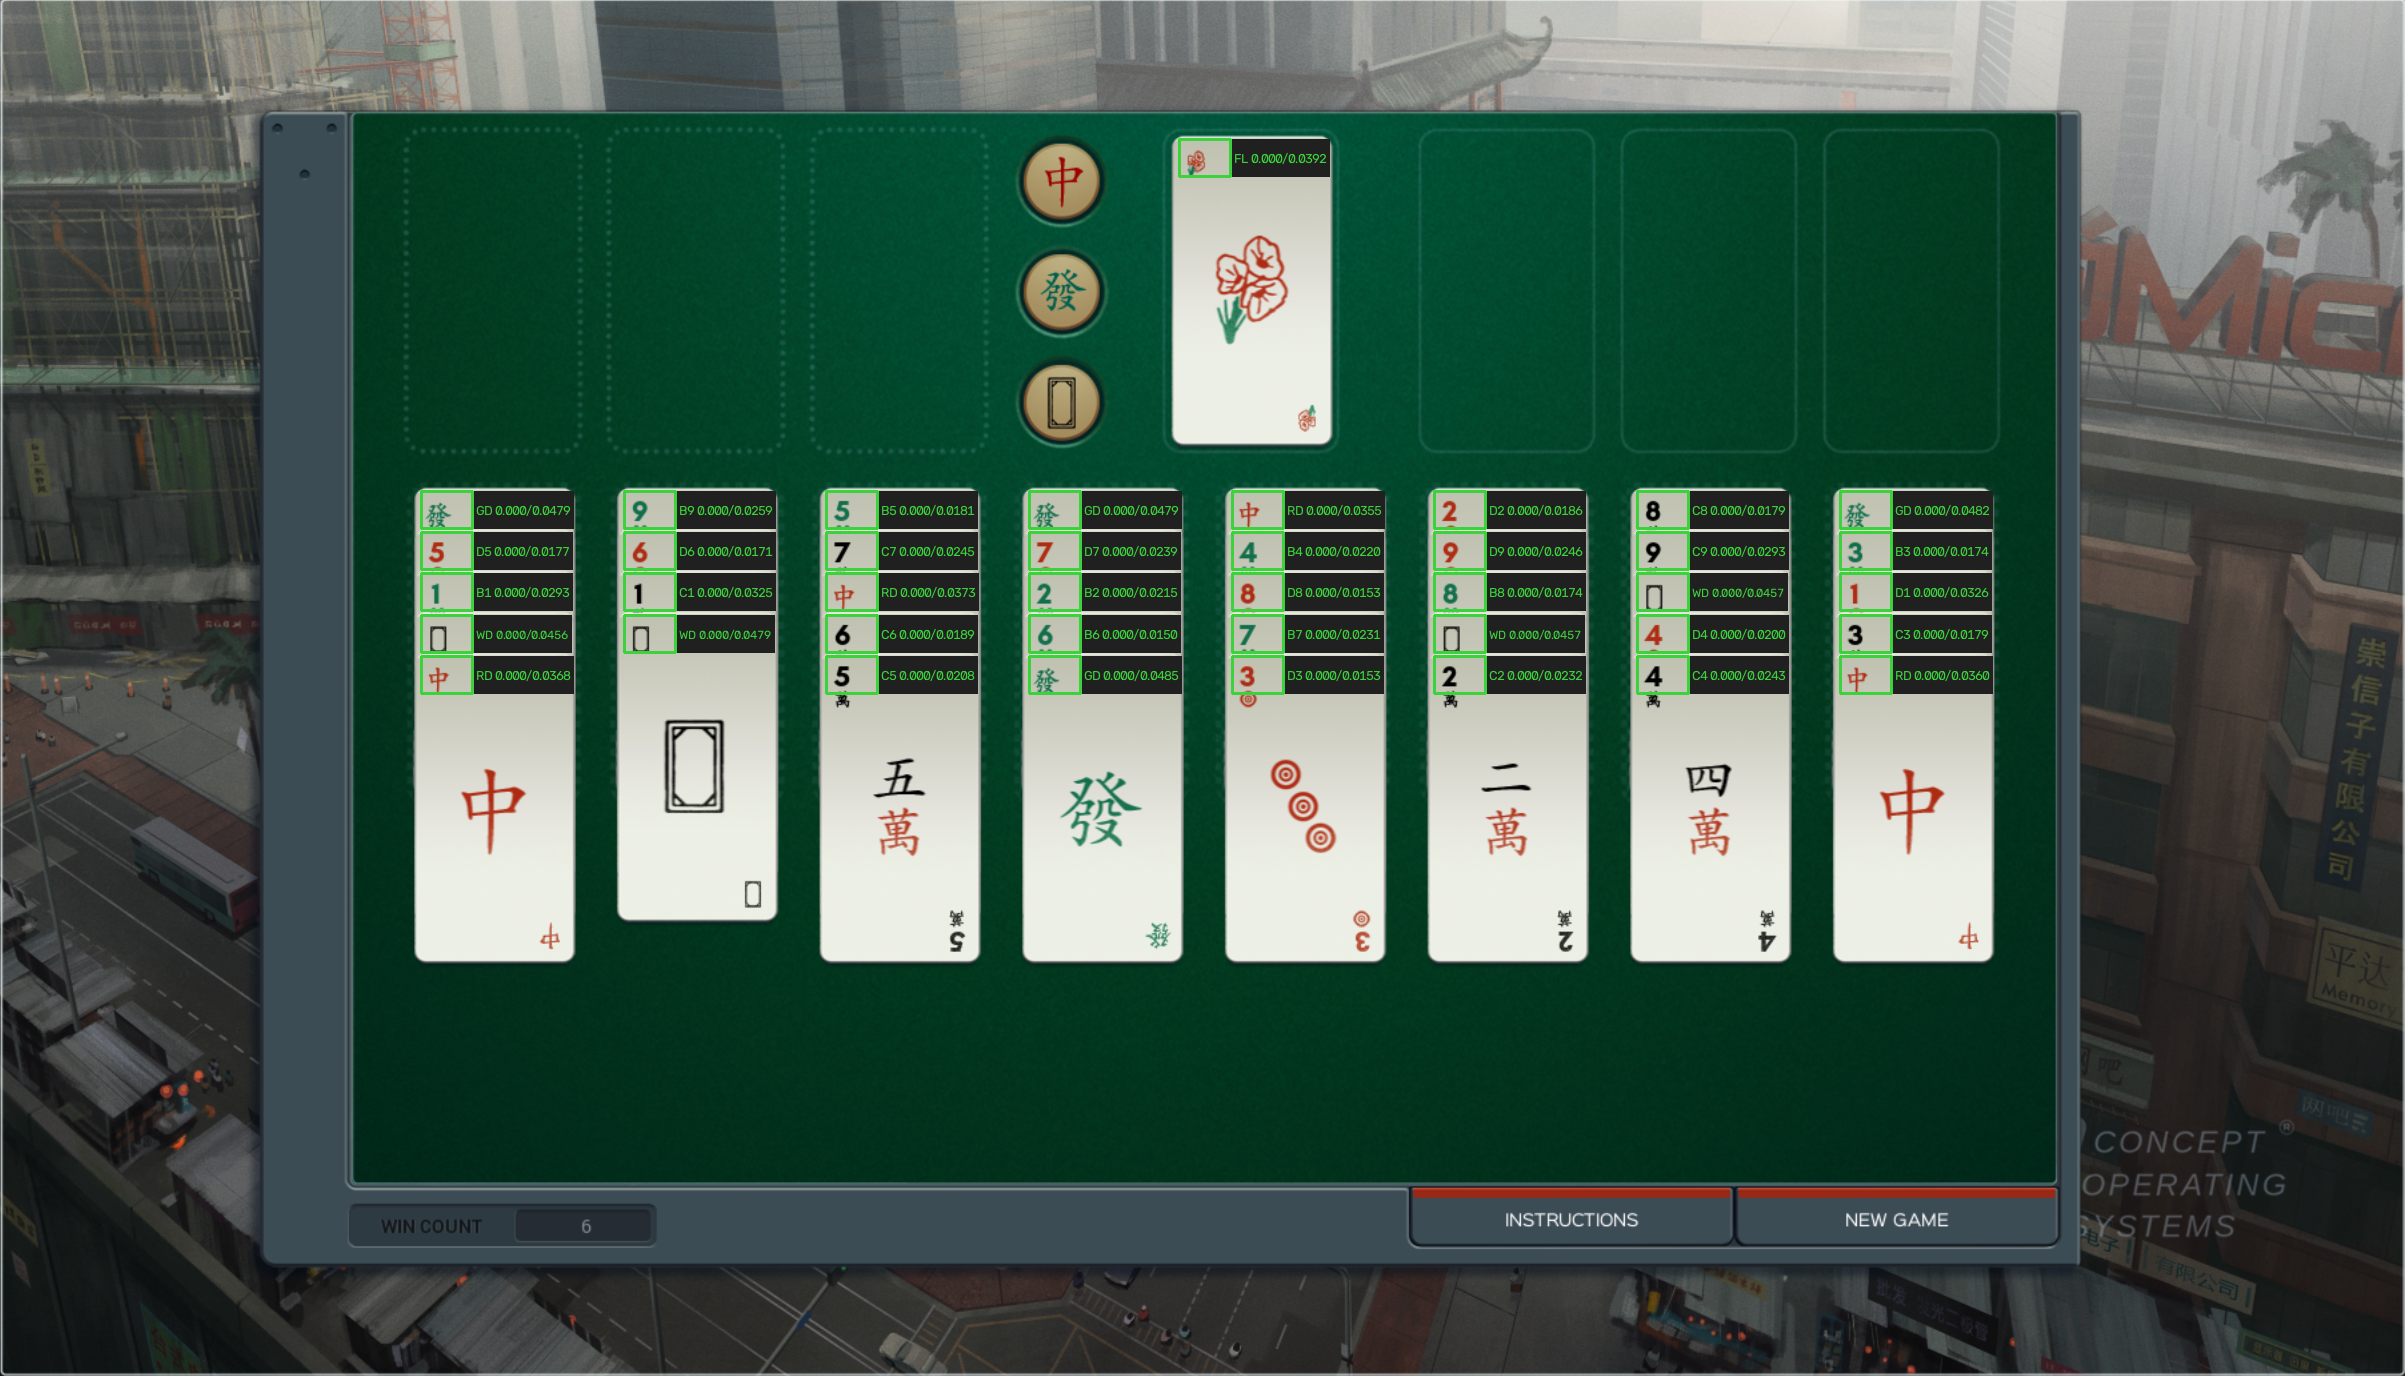
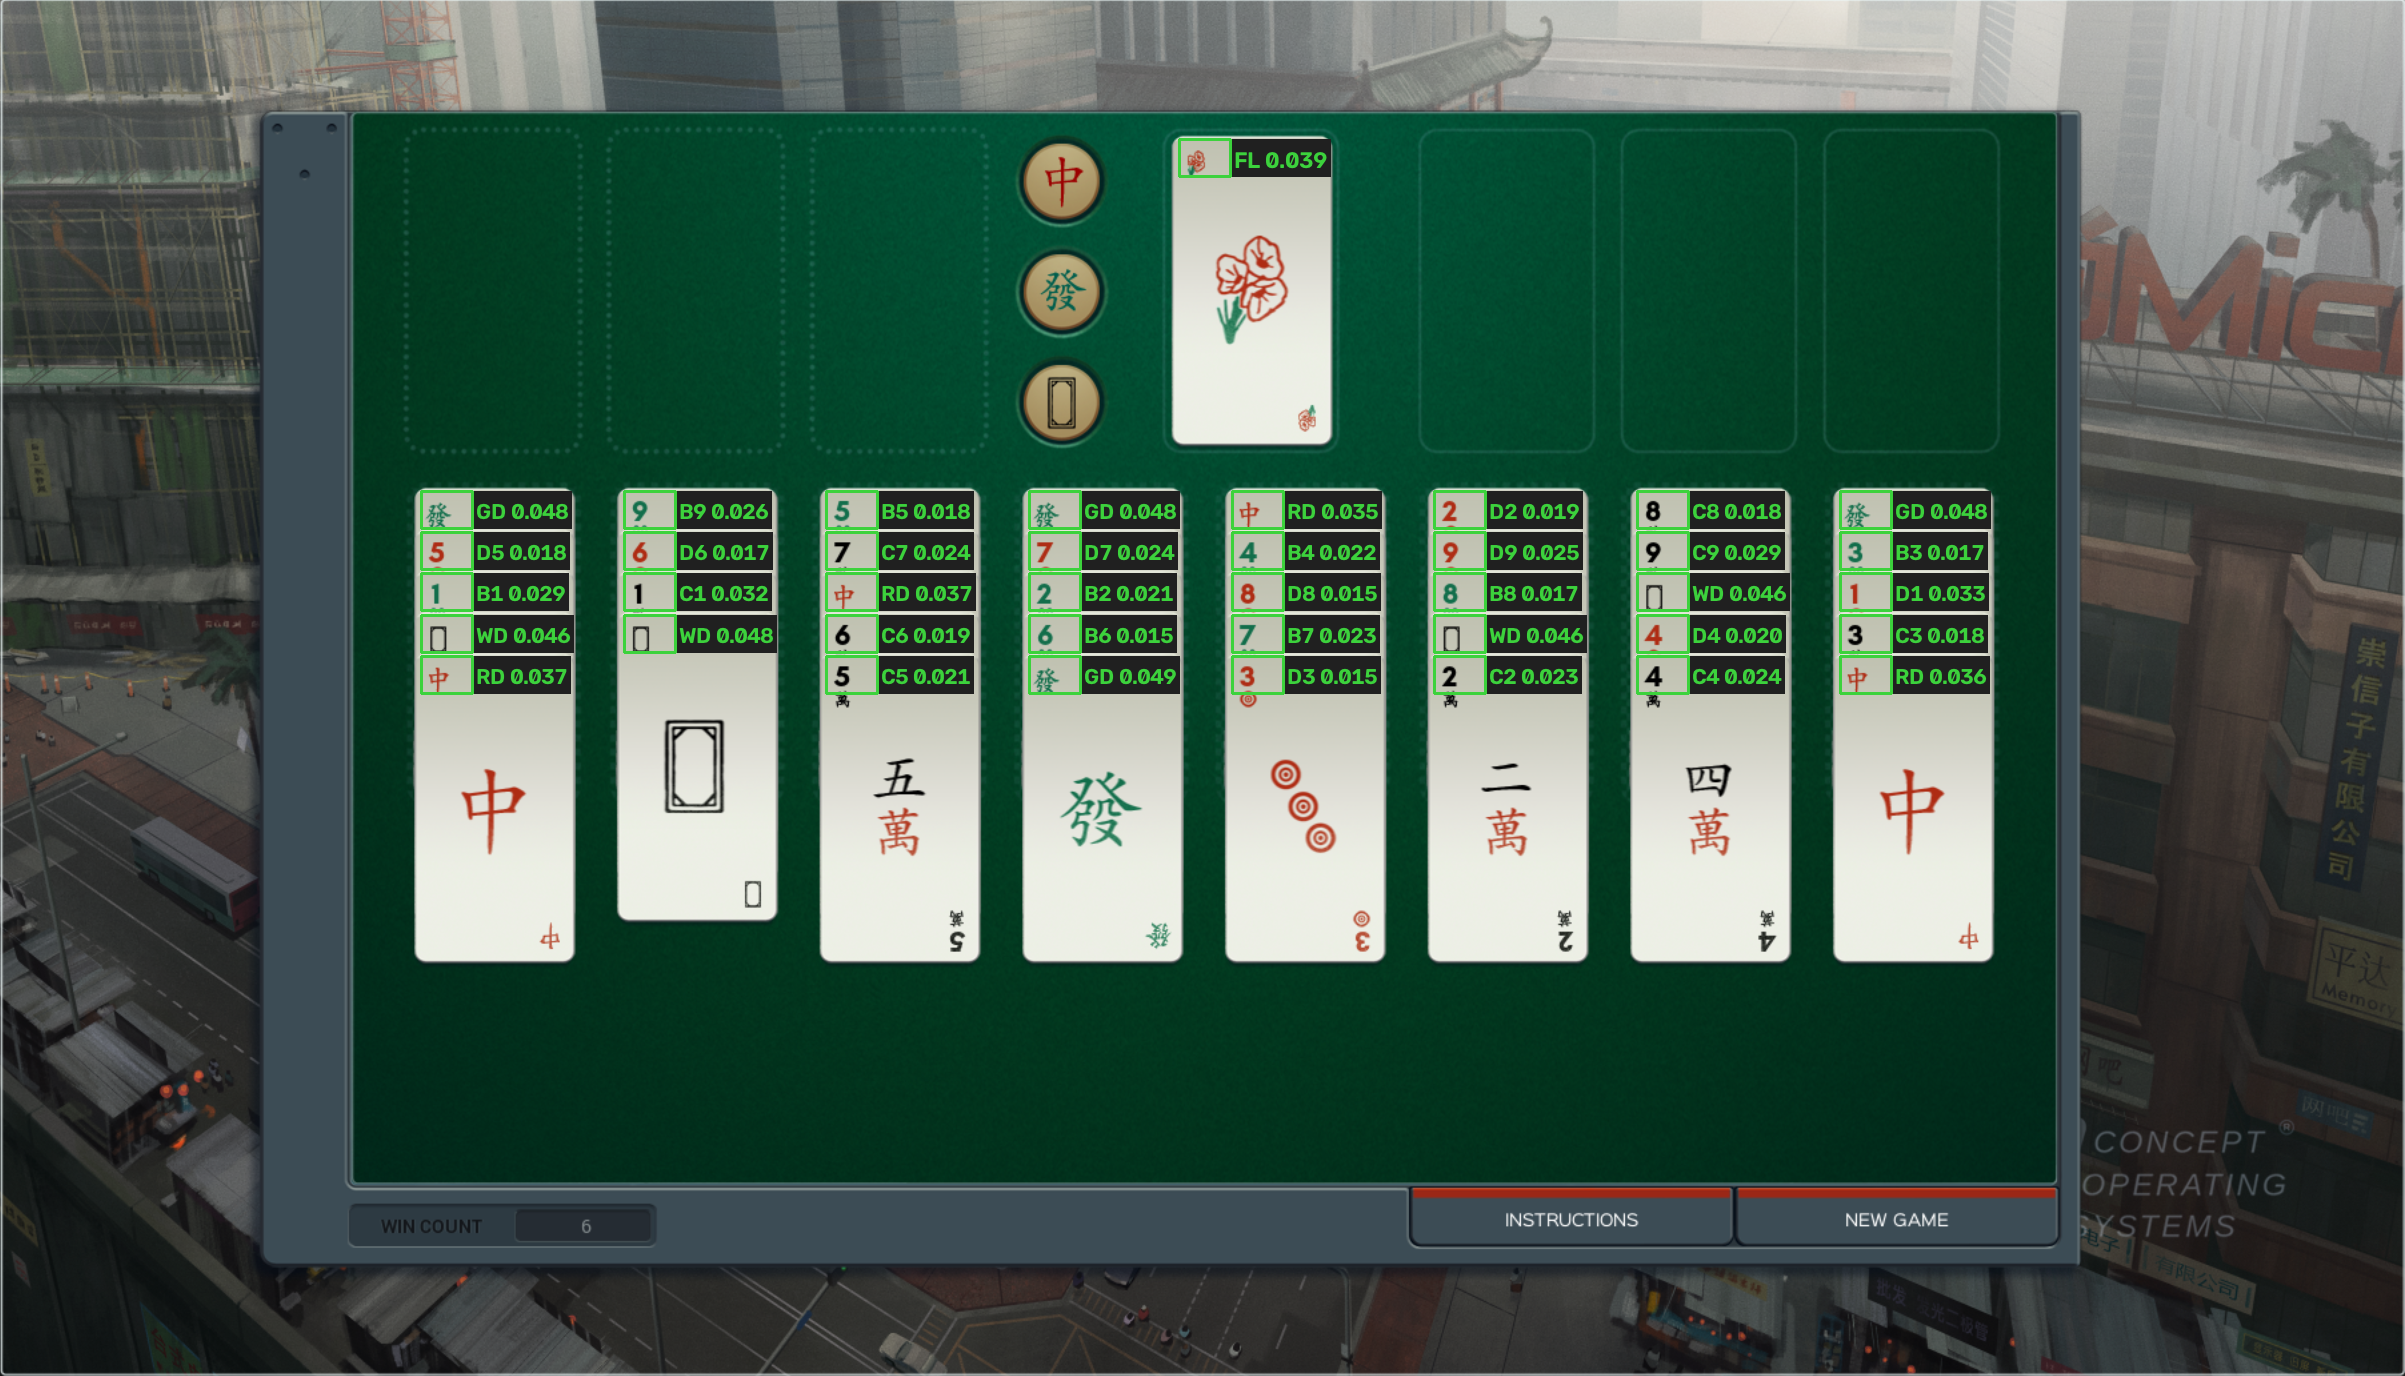
Make the margin on debug images much larger and more legible, drop absolute score

diff --git a/shenzhen_solitaire/vision.py b/shenzhen_solitaire/vision.py
@@ -542,11 +542,14 @@ def _check_debug_path(path: Path) -> None:
 
 
 def _annotation_variants(reading: _Reading) -> tuple[str, ...]:
-    """What one card's label could say, most informative first."""
+    """What one card's label could say, most informative first.
+
+    Only the margin is drawn. The absolute score is near-binary.
+    Refusals still quote both scores.
+    """
 
     return (
-        f"{reading.label} {reading.score:.3f}/{reading.margin:.4f}",
-        f"{reading.label} {reading.score:.3f}",
+        f"{reading.label} {reading.margin:.3f}",
         reading.label,
     )
 
@@ -578,8 +581,8 @@ def _fit_annotation(
 
     Scaling the text down to fit would make a dense column unreadable, so the
     size stops falling at _MIN_ANNOTATION_SCALE and the content gives way
-    instead: a large capture is annotated with the score and the margin, a
-    small one with the card name alone.
+    instead: a capture with room is annotated with the margin, one without it
+    with the card name alone.
     """
 
     for text in _annotation_variants(reading):

diff --git a/README.md b/README.md
@@ -15,10 +15,10 @@ the rank-and-suit corner instead of comparing the entire card face.
 When reading a screenshot, the recognizer locates the green playfield, scales
 the expected layout from its width, and labels each detected card corner. Below
 is that same calibration image read back, so every label can be checked against
-the card underneath it. Each prediction carries its match-distance score and
-the margin by which it beat the runner-up; green boxes cleared both thresholds.
-Scoring its own reference puts every score at 0.000, which leaves the margins
-on show: even an exact match beats its runner-up by only 0.015 to 0.049.
+the card underneath it. Each prediction carries the margin by which it beat the
+runner-up; a green box cleared both confidence checks. Even here, where every
+card is an exact match against its own reference, that margin is only 0.015 to
+0.049.
 
 ![OCR debug output with predicted cards and confidence scores](docs/images/shenzhen_debug.png)
 
@@ -167,17 +167,18 @@ uv run --extra ocr shenzhen-solitaire screenshot.png \
   --debug-image deals/screenshot_debug.png
 ```
 
-Each detected card is labeled beside its corner with the predicted card, its
-match score, and the margin by which it beat the runner-up. The margin is the
-number that matters: every pair of distinct cards scores below the absolute
-threshold, so a low score means "this is a card" rather than "this is the
-right card". Green boxes cleared both checks; red boxes are either
-unrecognizable or too close to call.
+Each detected card is labeled beside its corner with the predicted card and the
+margin by which it beat the runner-up. Green boxes cleared both confidence
+checks; red boxes are either unrecognizable or too close to call.
+
+The margin is the only number drawn because it is the only graded one. The
+absolute score that rules out non-cards is effectively pass or fail. A real
+corner scores under 0.02 against a 0.18 threshold while bare felt scores 0.35, so the box color already carries it, and a refusal quotes both figures.
 
 Labels are sized from the card they annotate rather than from the image, so
-each one stays inside its own card. On a capture too small to fit all three
-values legibly, a label drops the margin, then the score, instead of shrinking
-until it is unreadable or running into the column alongside.
+each one stays inside its own card. On a capture too small to fit the margin
+legibly, a label falls back to the card name alone instead of shrinking until
+it is unreadable or running into the column alongside.
 
 The debug image is written even when recognition fails, so the runs most worth
 inspecting are the ones it covers. Give the path a real image extension, since
